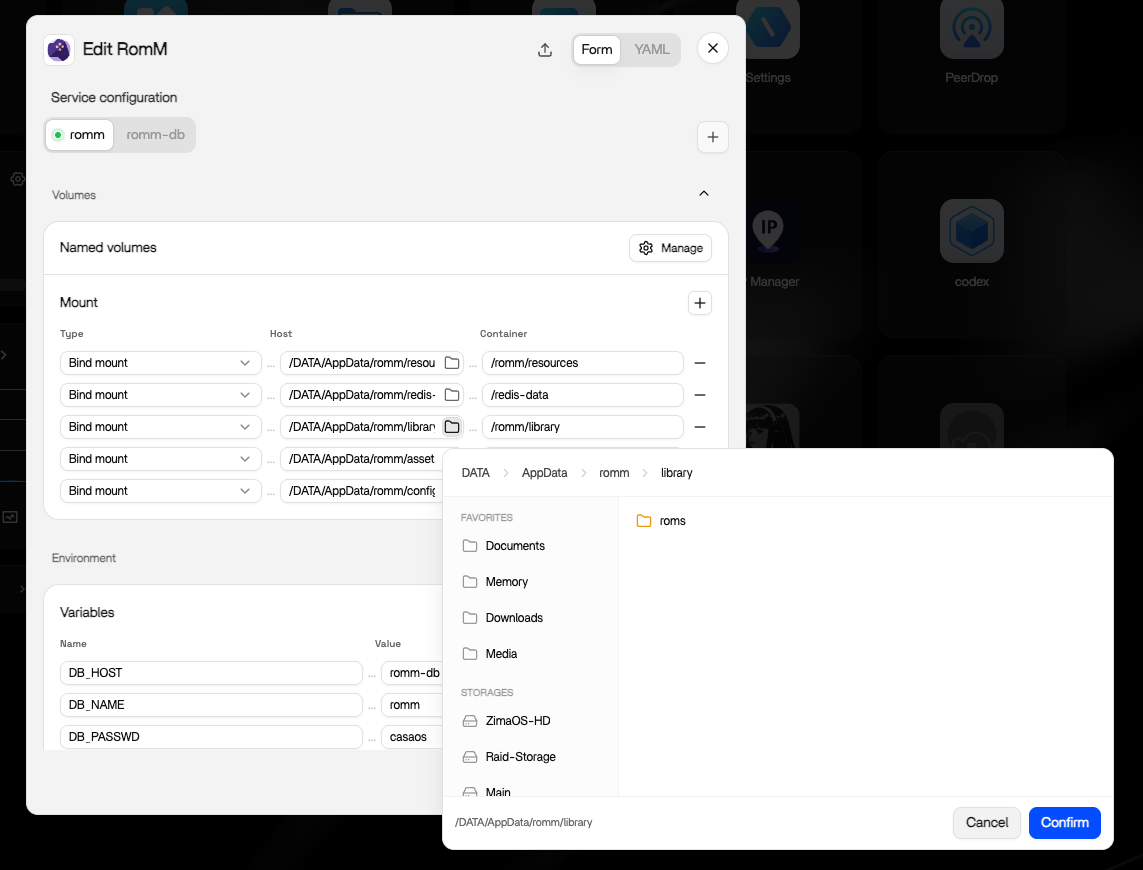
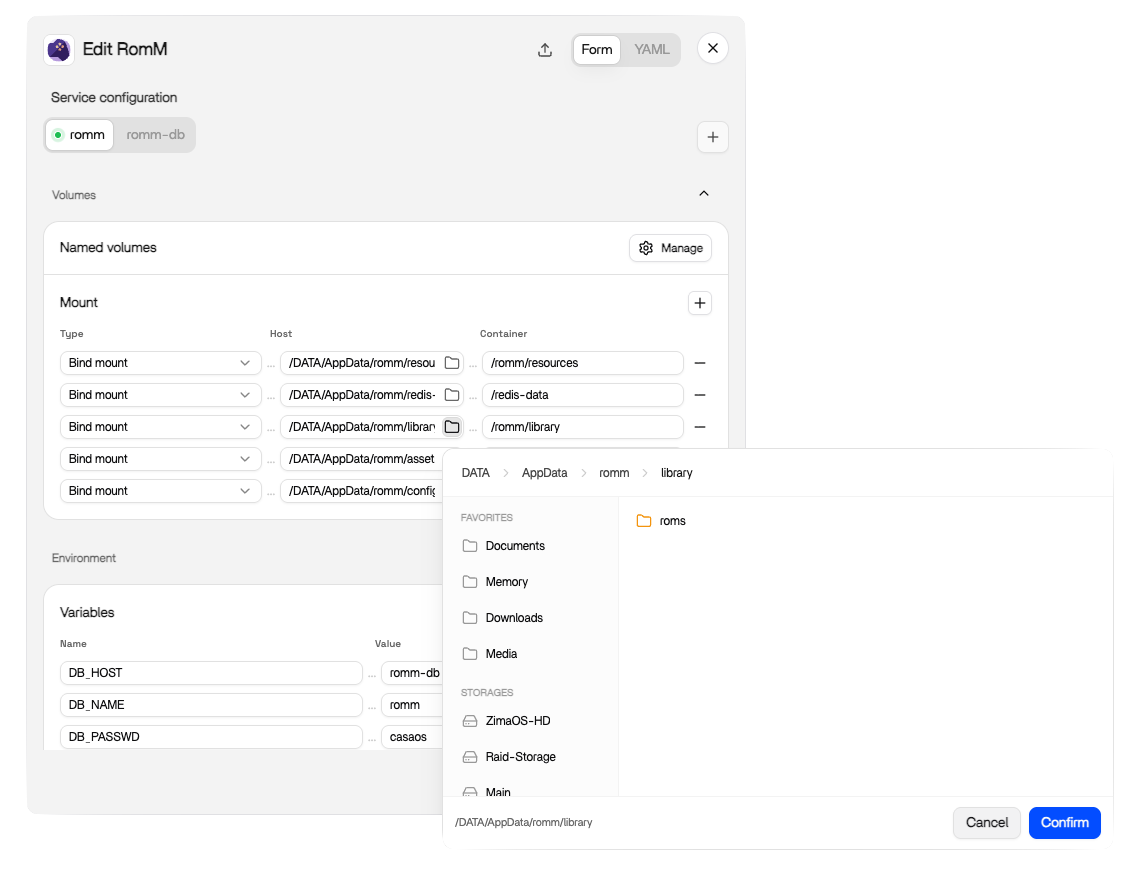
run fmt

Changed region(s): [[0.0, 0.0, 1.0, 1.0]]

diff --git a/docs/install/zimaos.md b/docs/install/zimaos.md
@@ -30,8 +30,6 @@ The defaults work out of the box, so everything below is optional.
 
 To change container settings, use the options button in the upper-right corner of the app tile. ZimaOS offers both a form-based editor and a YAML editor for the underlying compose file, so you can set volumes, ports, and env vars either way.
 
-![The options button on the RomM app tile](../resources/zimaos/app-tile-options.png)
-
 ![Editing RomM's volumes and environment variables](../resources/zimaos/edit-config.png)
 
 The env vars are the same ones documented in [Quick Start](../getting-started/quick-start.md) and the [Environment Variables reference](../reference/environment-variables.md). Two worth setting early:
